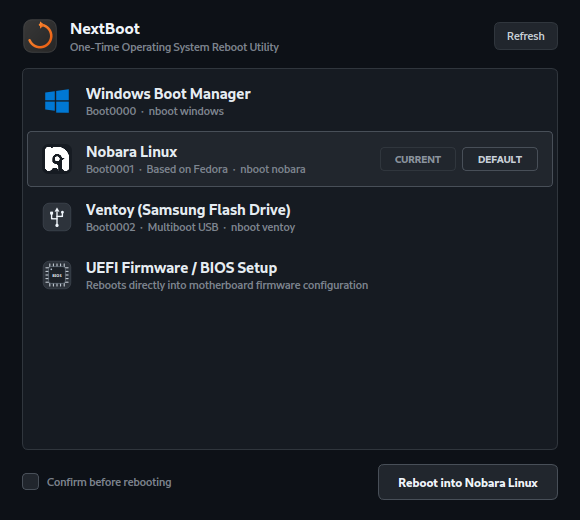
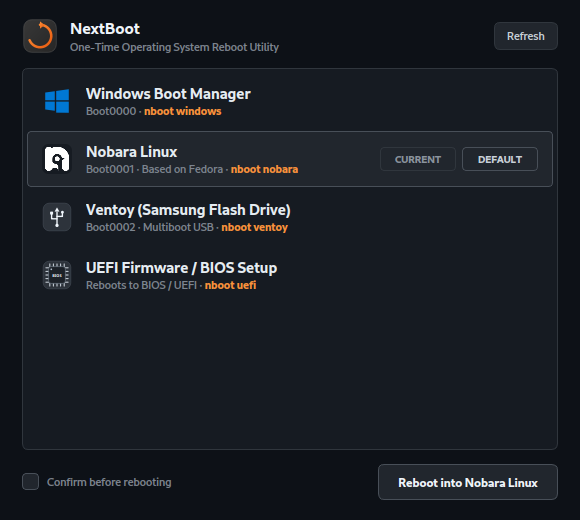
Highlight nboot command shorthands in amber orange and simplify BIOS subtitle

diff --git a/nextboot_gui.py b/nextboot_gui.py
@@ -151,20 +151,22 @@ class OSListRowWidget(QWidget):
         text_layout = QVBoxLayout()
         text_layout.setSpacing(2)
 
+        accent_orange = "#fb923c"
+
         if is_firmware_setup:
             title_text = "UEFI Firmware / BIOS Setup"
-            sub_text = "Reboots directly into motherboard firmware configuration"
+            sub_html = f"Reboots to BIOS / UEFI  ·  <span style='color: {accent_orange}; font-weight: 600;'>nboot uefi</span>"
         elif entry:
             title_text = entry.title
             sub_parts = [f"Boot{entry.entry_id}"]
             if entry.base_distro:
                 sub_parts.append(entry.base_distro)
             if entry.slugs:
-                sub_parts.append(f"nboot {entry.slugs[0]}")
-            sub_text = "  ·  ".join(sub_parts)
+                sub_parts.append(f"<span style='color: {accent_orange}; font-weight: 600;'>nboot {entry.slugs[0]}</span>")
+            sub_html = "  ·  ".join(sub_parts)
         else:
             title_text = "Unknown Entry"
-            sub_text = ""
+            sub_html = ""
 
         title_lbl = QLabel(title_text, self)
         title_font = QFont()
@@ -174,7 +176,9 @@ class OSListRowWidget(QWidget):
         title_lbl.setStyleSheet("color: #e6edf3; background: transparent;")
         text_layout.addWidget(title_lbl)
 
-        sub_lbl = QLabel(sub_text, self)
+        sub_lbl = QLabel(self)
+        sub_lbl.setTextFormat(Qt.TextFormat.RichText)
+        sub_lbl.setText(sub_html)
         sub_lbl.setStyleSheet("color: #7d8590; font-size: 11px; background: transparent;")
         text_layout.addWidget(sub_lbl)
 
